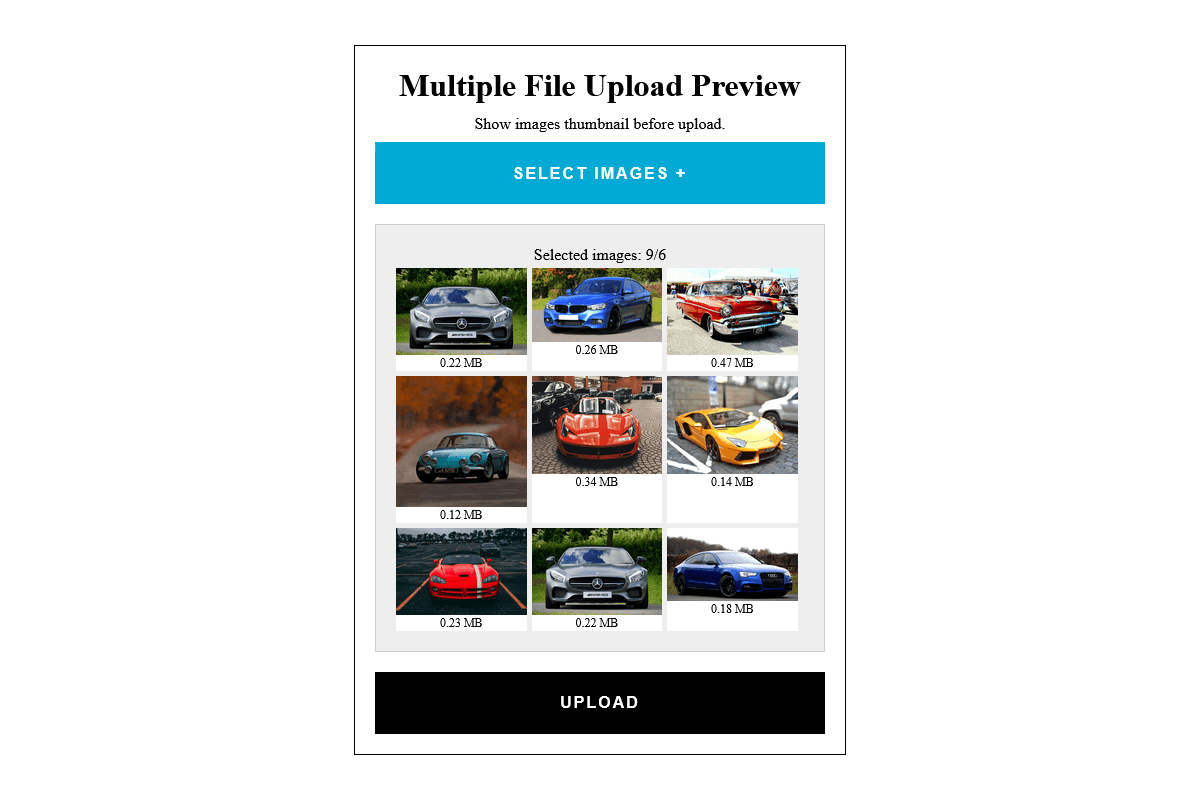
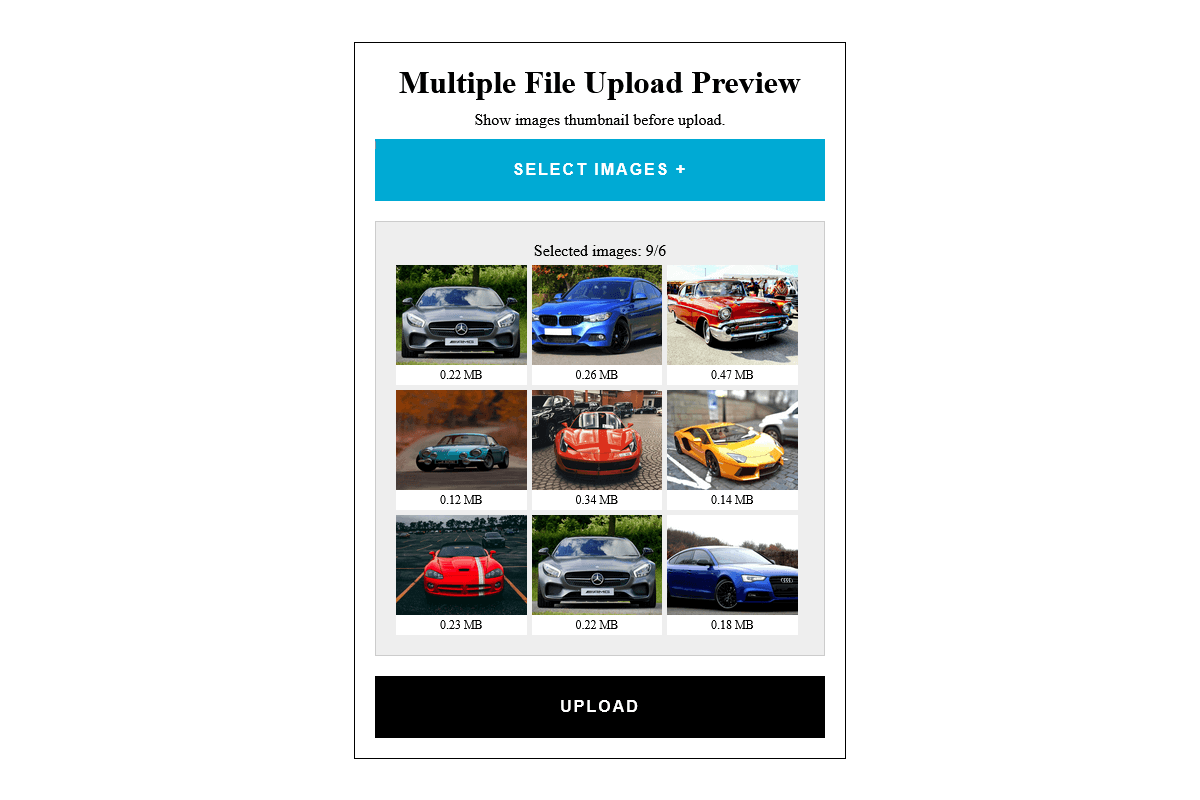
Fixed styles

diff --git a/css/jquery-version.css b/css/jquery-version.css
@@ -90,19 +90,27 @@ input#upload-files+label:focus {
   width: 100%;
   max-width: 32%;
   background: #fff;
+  overflow: hidden;
+  display: flex;
+  justify-content: center;
+  flex-wrap: wrap;
 }
 
 #upload-preview div.image img {
+  flex-basis: 100%;
   display: block;
-  width: 100%;
-  height: auto;
+  width: auto;
+  height: 100px;
+  margin: auto;
 }
 
 #upload-preview div.image span {
+  flex-basis: 100%;
   display: block;
   text-align: center;
   font-size: 12px;
   line-height: 16px;
+  padding: 2px;
 }
 
 form.ajax-form div.submitbox {

diff --git a/css/javascript-version.css b/css/javascript-version.css
@@ -89,6 +89,7 @@ input#upload-files+label:focus {
   width: 100%;
   max-width: 32%;
   height: auto;
+  max-height: 100px;
 }
 
 form.ajax-form div.submitbox {
